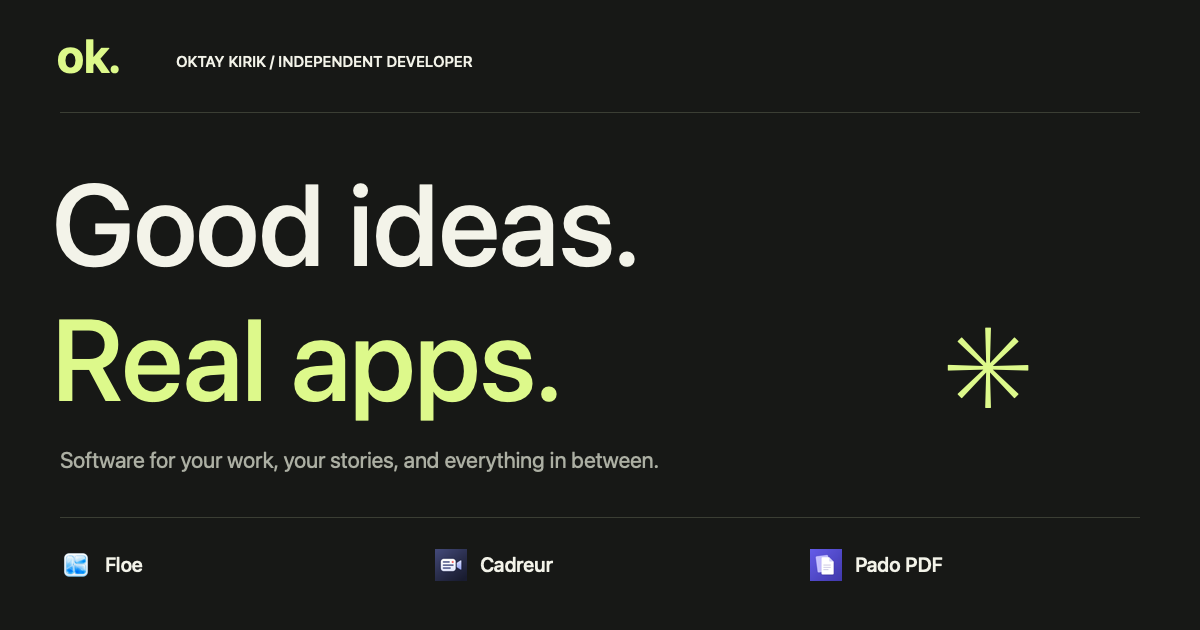
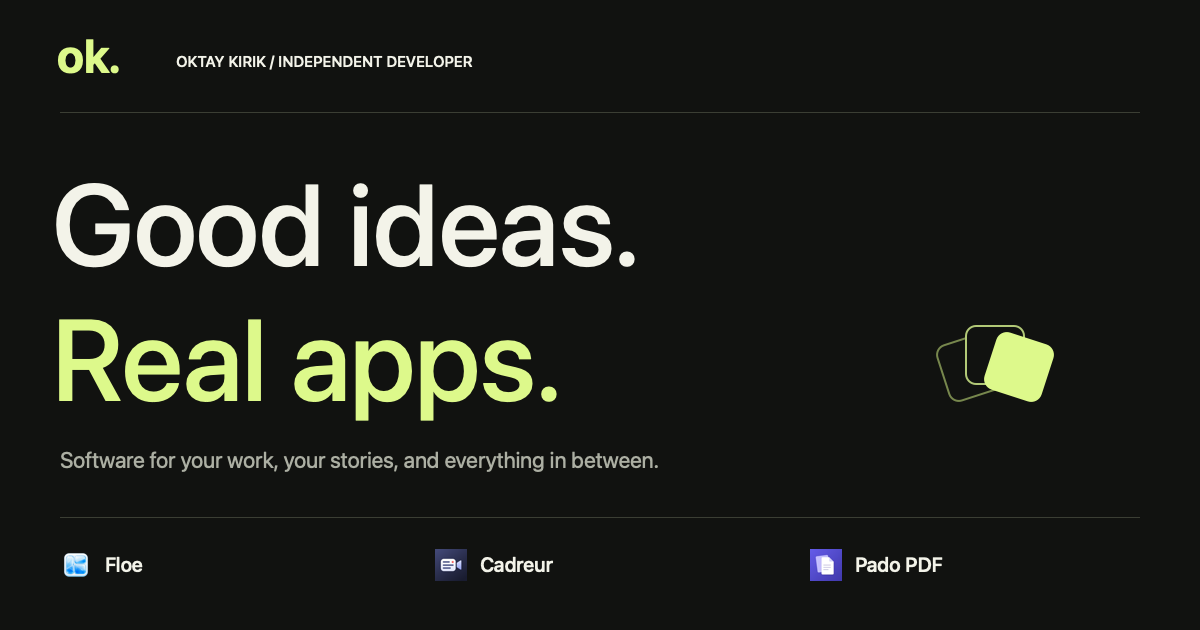
Replace the hero spark with an animated app motif
- Darken the portfolio background and update its social preview
- Animate the three-tile hero motif on load and hover

Changed region(s): [[0.7708, 0.5127, 0.8942, 0.6333]]

diff --git a/portfolio.css b/portfolio.css
@@ -7,7 +7,7 @@
 }
 :root {
   color-scheme: dark;
-  --page: #171816;
+  --page: #111210;
   --surface: #1e201c;
   --ink: #f3f3e9;
   --muted: #acafa3;
@@ -195,22 +195,63 @@ h1 {
   color: var(--acid);
   display: inline-flex;
   align-items: center;
+  white-space: nowrap;
 }
 .hero-period {
   color: var(--ink);
 }
-.hero-spark {
-  font-size: 0.82em;
+.app-motif {
   display: inline-block;
-  font-family: Arial, sans-serif;
-  font-weight: 400;
-  line-height: 1;
-  margin-left: 0.45em;
-  transform: rotate(-10deg);
-  transition: transform 0.65s cubic-bezier(0.2, 0.8, 0.2, 1);
+  position: relative;
+  flex: 0 0 auto;
+  width: 0.85em;
+  height: 0.7em;
+  margin-left: 0.38em;
 }
-.hero:hover .hero-spark {
-  transform: rotate(80deg);
+.app-motif i {
+  position: absolute;
+  left: 24%;
+  top: 18%;
+  width: 52%;
+  aspect-ratio: 1;
+  border: 2px solid currentColor;
+  border-radius: 18%;
+  background: var(--page);
+  transform: translate(var(--tile-x), var(--tile-y)) rotate(var(--tile-angle));
+  transition: transform 0.5s cubic-bezier(0.2, 0.8, 0.2, 1);
+  animation: unfold-apps 2.4s cubic-bezier(0.2, 0.8, 0.2, 1);
+}
+.app-motif i:nth-child(1) {
+  --tile-x: -40%;
+  --tile-y: 8%;
+  --tile-angle: -18deg;
+  --tile-aligned-x: -70%;
+  border-color: #77874d;
+}
+.app-motif i:nth-child(2) {
+  --tile-x: 0%;
+  --tile-y: -12%;
+  --tile-angle: 0deg;
+  --tile-aligned-x: 0%;
+  border-color: #b2c977;
+}
+.app-motif i:nth-child(3) {
+  --tile-x: 40%;
+  --tile-y: 8%;
+  --tile-angle: 18deg;
+  --tile-aligned-x: 70%;
+  background: var(--acid);
+}
+@keyframes unfold-apps {
+  0%,
+  20% {
+    transform: translate(0, 0) rotate(0deg) scale(0.85);
+  }
+}
+@media (hover: hover) and (prefers-reduced-motion: no-preference) {
+  .app-motif:hover i {
+    transform: translate(var(--tile-aligned-x), 0) rotate(0deg) scale(0.68);
+  }
 }
 .hero-bottom {
   margin-top: 30px;
@@ -885,13 +926,6 @@ h1 {
   color: var(--muted);
   font-size: 11px;
 }
-.about-asterisk {
-  color: var(--acid);
-  font:
-    142px/0.8 Arial,
-    sans-serif;
-  margin-top: 32px;
-}
 .about-main h2 {
   font-size: clamp(38px, 4.6vw, 65px);
   letter-spacing: -0.06em;
@@ -1247,6 +1281,14 @@ h1 {
   }
 }
 @media (max-width: 520px) {
+  .app-motif {
+    width: 0.65em;
+    height: 0.6em;
+    margin-left: 0.22em;
+  }
+  .app-motif i {
+    border-width: 1px;
+  }
   .wrap {
     width: calc(100% - 40px);
   }
@@ -1298,10 +1340,6 @@ h1 {
     font-size: clamp(61px, 14.75vw, 77px);
     margin-top: 26px;
     letter-spacing: -0.075em;
-  }
-  .hero-spark {
-    margin-left: 0.25em;
-    font-size: 0.62em;
   }
   .hero-bottom {
     align-items: flex-start;
@@ -1570,10 +1608,6 @@ h1 {
   .about-label .eyebrow {
     font-size: 9px;
   }
-  .about-asterisk {
-    font-size: 44px;
-    margin: 0;
-  }
   .about-main h2 {
     font-size: 41px;
   }
@@ -1623,6 +1657,13 @@ h1 {
   }
 }
 @media (max-width: 360px) {
+  h1 {
+    font-size: clamp(44px, 14.6vw, 52px);
+  }
+  .app-motif {
+    width: 0.53em;
+    margin-left: 0.16em;
+  }
   .wrap {
     width: calc(100% - 32px);
   }
@@ -1631,10 +1672,6 @@ h1 {
   }
   .site-header nav {
     gap: 12px;
-  }
-  .hero-spark {
-    font-size: 0.5em;
-    margin-left: 0.2em;
   }
   .project-copy {
     padding: 20px;

diff --git a/tools/render-social.swift b/tools/render-social.swift
@@ -30,13 +30,29 @@ for kind in kinds {
     NSGraphicsContext.saveGraphicsState()
     NSGraphicsContext.current = NSGraphicsContext(bitmapImageRep: bitmap)
     if kind == "portfolio" {
-        box(0,0,1200,630,0x171816)
+        box(0,0,1200,630,0x111210)
         text("ok.",57,28,100,70,size:47,tint:0xddf98b,weight:.bold)
         text("OKTAY KIRIK / INDEPENDENT DEVELOPER",176,52,720,30,size:15,tint:0xf3f3e9,weight:.medium)
         box(60,112,1080,1,0x3b3e34)
         text("Good ideas.",52,155,1070,140,size:115,tint:0xf3f3e9,weight:.medium)
         text("Real apps.",52,290,900,140,size:115,tint:0xddf98b,weight:.medium)
-        text("✳",945,297,160,150,size:115,tint:0xddf98b)
+        let tiles: [(CGFloat, CGFloat, CGFloat, UInt32)] = [
+            (-24, -5, 18, 0x77874d), (0, 7, 0, 0xb2c977), (24, -5, -18, 0xddf98b)
+        ]
+        for (index, tile) in tiles.enumerated() {
+            NSGraphicsContext.saveGraphicsState()
+            let transform = NSAffineTransform()
+            transform.translateX(by: 995 + tile.0, yBy: 630 - 362 + tile.1)
+            transform.rotate(byDegrees: tile.2)
+            transform.concat()
+            let shape = NSBezierPath(roundedRect: NSRect(x: -29, y: -29, width: 58, height: 58), xRadius: 10, yRadius: 10)
+            color(index == 2 ? 0xddf98b : 0x111210).setFill()
+            shape.fill()
+            color(tile.3).setStroke()
+            shape.lineWidth = 2
+            shape.stroke()
+            NSGraphicsContext.restoreGraphicsState()
+        }
         text("Software for your work, your stories, and everything in between.",60,447,1080,35,size:22,tint:0xacafa3)
         box(60,517,1080,1,0x3b3e34)
         let apps: [(String, String)] = [

diff --git a/index.html b/index.html
@@ -3,7 +3,7 @@
   <head>
     <meta charset="utf-8" />
     <meta name="viewport" content="width=device-width, initial-scale=1" />
-    <meta name="theme-color" content="#171816" />
+    <meta name="theme-color" content="#111210" />
     <meta
       name="description"
       content="Apps by Oktay Kırık. Arrange your Mac with Floe, create videos with Cadreur, and take control of your documents with Pado PDF."
@@ -80,8 +80,9 @@
         <h1 id="hero-title">
           Good ideas.<br /><span class="hero-last"
             >Real apps<span class="hero-period">.</span
-            ><span class="hero-spark" aria-hidden="true">✳</span></span
-          >
+            ><span class="app-motif" aria-hidden="true"
+              ><i></i><i></i><i></i></span
+          ></span>
         </h1>
         <div class="hero-bottom">
           <p class="hero-description">
@@ -515,8 +516,7 @@
 
       <section id="about" class="about wrap" aria-labelledby="about-title">
         <div class="about-label">
-          <span class="eyebrow">The person behind the pixels</span
-          ><span class="about-asterisk" aria-hidden="true">✳</span>
+          <span class="eyebrow">The person behind the pixels</span>
         </div>
         <div class="about-main">
           <h2 id="about-title">Curiosity first.<br />Care in the details.</h2>

diff --git a/README.md b/README.md
@@ -29,9 +29,11 @@ pages and the shared legal-page stylesheet are independent of the portfolio.
 Portfolio previews are manual: Floe illustrates three window layouts, while
 Cadreur and Pado PDF switch between real app screenshots. Buttons expose their
 selected state and support native keyboard interaction. Reduced motion disables
-transitions; content and links work without JavaScript. The font is self-hosted
-with its SIL Open Font License under `assets/fonts/`. Asset provenance and
-verified profile links are recorded in `assets/portfolio/README.md`.
+transitions; content and links work without JavaScript. The three-tile hero motif
+unfolds once on load and aligns on hover. Reduced motion keeps the motif static.
+The font is self-hosted with its SIL Open Font License under `assets/fonts/`.
+Asset provenance and verified profile links are recorded in
+`assets/portfolio/README.md`.
 
 `floe/floe.js` powers a single interactive desktop illustration with Focus,
 Split, and Columns layouts, a Snap Bar / Snap Assist sequence, and a draggable
